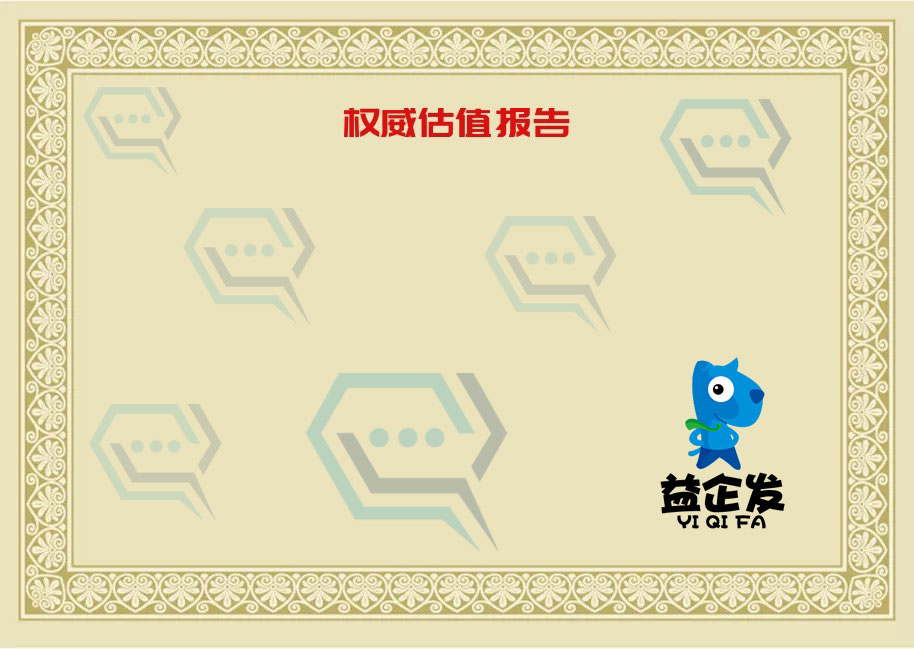
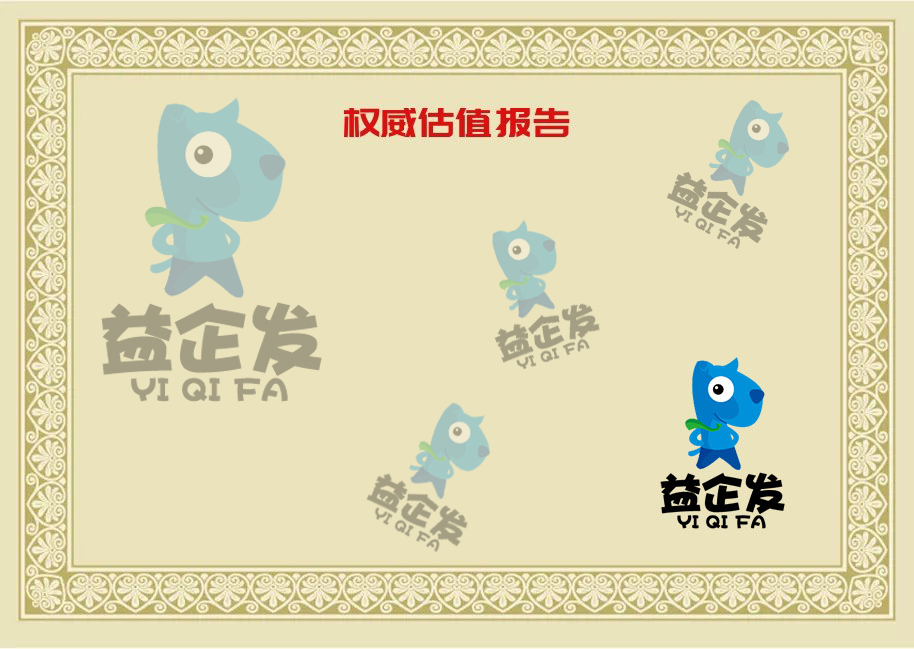
修改了图标

Changed region(s): [[0.0919, 0.1233, 0.5514, 0.8629], [0.5208, 0.3082, 0.674, 0.5855], [0.7046, 0.1541, 0.8884, 0.3698]]

diff --git a/application/index/controller/Myapi.php b/application/index/controller/Myapi.php
@@ -393,6 +393,10 @@ class Myapi extends Base
                 ->page($pages, 10)->select();
         }
         if ($userlist) {
+            foreach ($userlist as $k=>$v){
+                $gethaotypename=Db::table('haotype')->where('htid',$v['type'])->find();
+                $userlist[$k]['haotype']=$gethaotypename['name'];
+            }
             echo $this->resultToJson(1, '搜索返回成功', $userlist);
         } else {
             echo $this->resultToJson('0', '搜索返回失败', '');
@@ -406,6 +410,10 @@ class Myapi extends Base
         $pageparam['query']['state'] = 2;
         $pageparam['query']['issell'] = 0;
         $userlist = Db::table('sellinfo')->where($pageparam['query'])->page($pages, 10)->select();
+        foreach ($userlist as $k=>$v){
+            $gethaotypename=Db::table('haotype')->where('htid',$v['type'])->find();
+            $userlist[$k]['haotype']=$gethaotypename['name'];
+        }
         if ($userlist) {
             echo $this->resultToJson(1, '返回号列表成功', $userlist);
         } else {
